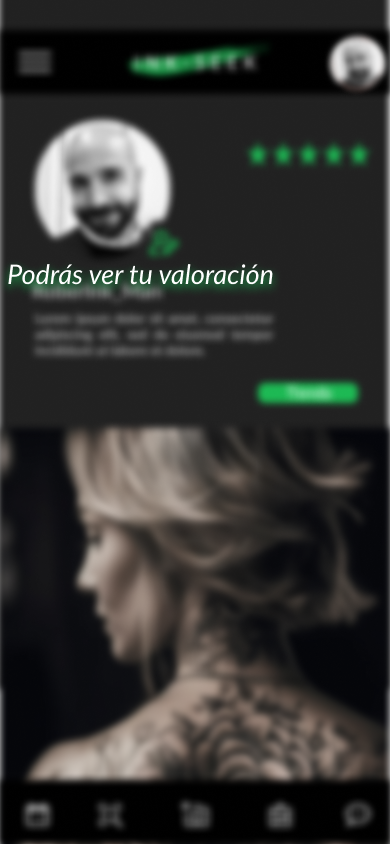
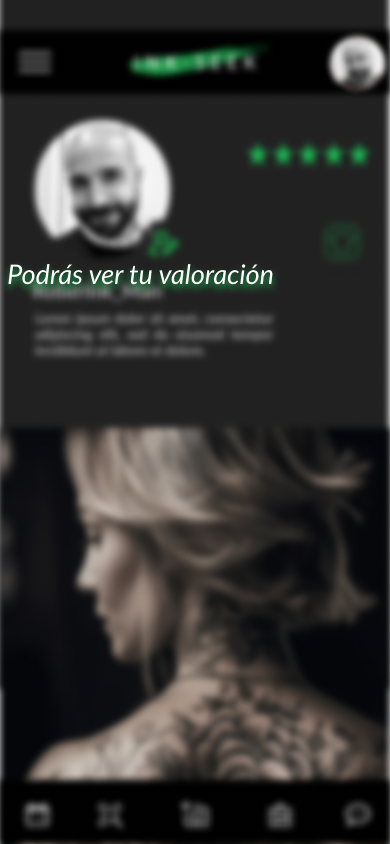
final onboard

Changed region(s): [[0.6462, 0.4313, 0.9231, 0.4929]]

diff --git a/src/app/pages/on-boarding/on-boarding.component.ts b/src/app/pages/on-boarding/on-boarding.component.ts
@@ -49,69 +49,75 @@ export class OnBoardingComponent implements OnInit{
     {src:"assets/onboard/onboardhome/burger-txt.png", text:""},//58
     {src:"assets/onboard/onboardhome/burger.png", text:""},//60
 
-    {src:"assets/onboard/calendario blur.png",text:""},//62
-    {src:"assets/onboard/añadir-citas-txt.png", text:""},//64
-    {src:"assets/onboard/añadir-citas-txt.png", text:""},//66
-    {src:"assets/onboard/añadir-citas-verde.png", text:""},//68
+          // {src:"assets/onboard/calendario blur.png",text:""},//62
+          // {src:"assets/onboard/añadir-citas-txt.png", text:""},//64
+          // {src:"assets/onboard/añadir-citas-txt.png", text:""},//66
+          // {src:"assets/onboard/añadir-citas-verde.png", text:""},//68
 
-    {src:"assets/onboard/calendario blur.png",text:""},//70
-    {src:"assets/onboard/calendario-txt.png", text:""},//72
-    {src:"assets/onboard/calendario-txt.png", text:""},//74
-    {src:"assets/onboard/calendario.png", text:""},//76
+          // {src:"assets/onboard/calendario blur.png",text:""},//70
+          // {src:"assets/onboard/calendario-txt.png", text:""},//72
+          // {src:"assets/onboard/calendario-txt.png", text:""},//74
+          // {src:"assets/onboard/calendario.png", text:""},//76
 
-    {src:"assets/onboard/calendario blur.png",text:""},//78
-    {src:"assets/onboard/consultar citas-txt.png", text:""},//80
-    {src:"assets/onboard/consultar citas-txt.png", text:""},//82
-    {src:"assets/onboard/consultar-citas.png", text:""},//84
+          // {src:"assets/onboard/calendario blur.png",text:""},//78
+          // {src:"assets/onboard/consultar citas-txt.png", text:""},//80
+          // {src:"assets/onboard/consultar citas-txt.png", text:""},//82
+          // {src:"assets/onboard/consultar-citas.png", text:""},//84
 
 
-    {src:"assets/onboardv2/editar_perfil/perfil_tatuador_blur.png", text:""},//0 //86
-    {src:"assets/onboardv2/editar_perfil/perfil_tatuador_blur.png", text:""},//2n //88
-    {src:"assets/onboardv2/editar_perfil/editar_perfil_final_blur.png", text:""},//4 //90
-    {src:"assets/onboardv2/editar_perfil/editar_perfil_final_blur.png", text:""},//6 //92
-    {src:"assets/onboardv2/editar_perfil/editar_perfil_final_noblur.png", text:""},//8 //94                      //segundo 10//
-    
-    {src:"assets/onboardv2/editar_perfil/perfil_tatuador_blur.png", text:""},//10 //96
-    {src:"assets/onboardv2/editar_tienda/editar_tienda_final_blur.png", text:""},//12 //98
-    {src:"assets/onboardv2/editar_tienda/editar_tienda_final_blur.png", text:""},//14 //100
-    {src:"assets/onboardv2/editar_tienda/editar_tienda_final_noblur.png", text:""},//16 //102                         //segundo 18//
-
-    
-    {src:"assets/onboardv2/editar_perfil/perfil_tatuador_blur.png", text:""},//18 //104
-    {src:"assets/onboardv2/editar_valoracion/valoracion_blur.png", text:""},//20 //106
-    {src:"assets/onboardv2/editar_valoracion/valoracion_blur.png", text:""},//22 //108
-    {src:"assets/onboardv2/editar_valoracion/valoracion_noblur.png", text:""},//24 //110                           //segundo 26//
+    {src:"assets/onboardv2/editar_perfil/perfil_tatuador_blur.png", text:""},//0                 62                                  //86
+    {src:"assets/onboardv2/editar_perfil/perfil_tatuador_blur.png", text:""},//2n                64                                  //88
+    {src:"assets/onboardv2/editar_perfil/editar_perfil_final_blur.png", text:""},//4             66                                  //90
+    {src:"assets/onboardv2/editar_perfil/editar_perfil_final_blur.png", text:""},//6             68                                 //92
+    {src:"assets/onboardv2/editar_perfil/editar_perfil_final_noblur.png", text:""},//8           70                                 //94 //segundo 10//
     
 
-    {src:"assets/onboardv2/editar_perfil/perfil_tatuador_blur.png", text:""},//26 //112
-    {src:"assets/onboardv2/editar_galeria/galeria_blur.png", text:""},//28 //114
-    {src:"assets/onboardv2/editar_galeria/galeria_blur.png", text:""},//30 //116
-    {src:"assets/onboardv2/editar_galeria/galeria_noblur.png", text:""},//32 //118                                //segundo 34//
+    {src:"assets/onboardv2/editar_perfil/perfil_tatuador_blur.png", text:""},//10                72                                 //96
+    {src:"assets/onboardv2/editar_tienda/editar_tienda_final_blur.png", text:""},//12            74                                 //98
+    {src:"assets/onboardv2/editar_tienda/editar_tienda_final_blur.png", text:""},//14            76                                 //100
+    {src:"assets/onboardv2/editar_tienda/editar_tienda_final_noblur.png", text:""},//16          78                                 //102//segundo 18//
+
+    
+    {src:"assets/onboardv2/editar_perfil/perfil_tatuador_blur.png", text:""},//18                80                                 //104
+    {src:"assets/onboardv2/editar_valoracion/valoracion_blur.png", text:""},//20                 82                                 //106
+    {src:"assets/onboardv2/editar_valoracion/valoracion_blur.png", text:""},//22                 84                                 //108
+    {src:"assets/onboardv2/editar_valoracion/valoracion_noblur.png", text:""},//24               86                                 //110 //segundo 26//
+    
+
+    {src:"assets/onboardv2/editar_perfil/perfil_tatuador_blur.png", text:""},//26                88                                 //112
+    {src:"assets/onboardv2/editar_galeria/galeria_blur.png", text:""},//28                       90                                 //114
+    {src:"assets/onboardv2/editar_galeria/galeria_blur.png", text:""},//30                       92                                 //116
+    {src:"assets/onboardv2/editar_galeria/galeria_noblur.png", text:""},//32                     94                                 //118//segundo 34//
 
 
-    {src:"assets/onboardv2/mod_perfil/mod_perfil_iniblur.png", text:""},//34 //120
-    {src:"assets/onboardv2/mod_perfil/mod_perfil_iniblur.png", text:""},//36 //122
-    {src:"assets/onboardv2/mod_perfil/mod_perfil_blur.png", text:""},//38 //124
-    {src:"assets/onboardv2/mod_perfil/mod_perfil_blur.png", text:""},//40 //126
-    {src:"assets/onboardv2/mod_perfil/mod_perfil_noblur.png", text:""},//42 //128                                 //segundo 44//
+    {src:"assets/onboardv2/mod_perfil/mod_perfil_iniblur.png", text:""},//34                     96                                //120
+    {src:"assets/onboardv2/mod_perfil/mod_perfil_iniblur.png", text:""},//36                     98                                 //122
+    {src:"assets/onboardv2/mod_perfil/mod_perfil_blur.png", text:""},//38                        100                                 //124
+    {src:"assets/onboardv2/mod_perfil/mod_perfil_blur.png", text:""},//40                        102                                 //126
+    {src:"assets/onboardv2/mod_perfil/mod_perfil_noblur.png", text:""},//42                      104                                 //128//segundo 44//
 
 
-    {src:"assets/onboardv2/mod_perfil/mod_perfil_iniblur.png", text:""},//44 //130
-    {src:"assets/onboardv2/mod_perfil_dato/editar perfil tatuador2_blur.png", text:""},//46 //132
-    {src:"assets/onboardv2/mod_perfil_dato/editar perfil tatuador2_blur.png", text:""},//48 //134
-    {src:"assets/onboardv2/mod_perfil_dato/editar perfil tatuador2_noblur.png", text:""},//50 //136                  //segundo 52//
+    {src:"assets/onboardv2/mod_perfil/mod_perfil_iniblur.png", text:""},//44                      106                                //130
+    {src:"assets/onboardv2/mod_perfil_dato/editar perfil tatuador2_blur.png", text:""},//46       108                                //132
+    {src:"assets/onboardv2/mod_perfil_dato/editar perfil tatuador2_blur.png", text:""},//48       110                               //134
+    {src:"assets/onboardv2/mod_perfil_dato/editar perfil tatuador2_noblur.png", text:""},//50     112                               //136//segundo 52//
 
 
-    {src:"assets/onboardv2/chat/chat_main_blur.png", text:""},//52 //138
-    {src:"assets/onboardv2/chat/chat_noblur.png", text:""},//54 //140
-    {src:"assets/onboardv2/chat/chat_bocadillo.png", text:""},//56 //142
-    {src:"assets/onboardv2/chat/chat_bocadillo.png", text:""},//58 //144                                                      //segundo 60//
 
 
-    {src:"assets/onboardv2/artistas/artistas_blur.png", text:""},//62 //146
-    {src:"assets/onboardv2/artistas/artistas_blur.png", text:""},//64 //148
-    {src:"assets/onboardv2/artistas/artistas_noblur.png", text:""},//66 //150 
-    {src:"assets/onboardv2/artistas/artistas_noblur.png", text:""},//68 //152                                                      //segundo 68//
+
+        // {src:"assets/onboardv2/chat/chat_main_blur.png", text:""},//52 //138
+        // {src:"assets/onboardv2/chat/chat_noblur.png", text:""},//54 //140
+        // {src:"assets/onboardv2/chat/chat_bocadillo.png", text:""},//56 //142
+        // {src:"assets/onboardv2/chat/chat_bocadillo.png", text:""},//58 //144                                                      //segundo 60//
+
+
+        // {src:"assets/onboardv2/artistas/artistas_blur.png", text:""},//62 //146
+        // {src:"assets/onboardv2/artistas/artistas_blur.png", text:""},//64 //148
+        // {src:"assets/onboardv2/artistas/artistas_noblur.png", text:""},//66 //150 
+        // {src:"assets/onboardv2/artistas/artistas_noblur.png", text:""},//68 //152                                                      //segundo 68//
+    {src:"assets/onboard/onboardhome/01.png", text:""},
+    {src:"assets/onboard/onboardhome/01.png", text:""},
     {src:"assets/onboard/onboardhome/01.png", text:""},
   ]; 
   currentIndex= 0

diff --git a/src/app/pages/on-boarding/on-boarding.component.css b/src/app/pages/on-boarding/on-boarding.component.css
@@ -97,35 +97,23 @@
   opacity: 0;
   scale: 1;
 }
-
+/*  */
 .burger {
+  height: 30px;
+  width: 30px;
   background-image: url("src\assets\onboard\iconos\burger.png");
   background-size: contain;
   background-repeat: no-repeat;
   position: relative;
   z-index: 9999;
   position:inherit;
-  top: 47px;
-  left: 26px;
+  top: 48px;
+  left: 23px;
   animation: aparecer 3s 55s forwards, desaparecer 3s 58s forwards;
   opacity: 0;
   scale: 1;
 }
-/* .buscador {
-  background-image: url("../../../assets/img/buscador.png");
-  background-size: contain;
-  background-repeat: no-repeat;
-  height: 6.5%;
-  width: 245px;
-  position: relative;
-  z-index: 9999;
-  position:inherit;
-  top: 104.5px;
-  left: 72px;
-  animation: aparecer 3s 91s forwards, desaparecer 3s 92s forwards;
-  opacity: 0;
-  scale: 1;
-} */
+
 .chat {
   background-image: url("src\assets\onboard\iconos\chat.png");
   background-size: contain;
@@ -141,7 +129,7 @@
   opacity: 0;
   scale: 1;
 }
-.añadir{
+/* .añadir{
 background-image: url("src\assets\onboard\aña.png");
 background-size: contain;
 background-repeat: no-repeat;
@@ -155,8 +143,8 @@ right: 52px;
 animation: aparecer 3s 63s forwards, desaparecer 3s 66s forwards;
 opacity: 0;
 scale: 1;
-}
-.calendario2{
+} */
+/* .calendario2{
 background-size: contain;
 background-repeat: no-repeat;
 height: 375px;
@@ -169,8 +157,8 @@ left: 25px;
 animation: bordes 3s 71s forwards, bordes-out 3s 74s forwards;
 opacity: 0;
 scale: 1;
-}
-.consultar {
+} */
+/* .consultar {
 background-size: contain;
 background-repeat: no-repeat;
 height: 140px;
@@ -183,8 +171,8 @@ left: 30px;
 opacity: 0;
 scale: 1;
 animation: bordes 3s 79s forwards, bordes-out 3s 82s forwards;
-}
-/* .elemento1{
+} */
+ .elemento1{
   background-image:url("src/assets/editarp.png");
   background-size: contain;
   background-repeat:no-repeat;
@@ -197,7 +185,8 @@ animation: bordes 3s 79s forwards, bordes-out 3s 82s forwards;
   position:inherit;
   top: 200px;
   right: 200px;
-  animation: aparecer 3s 90s forwards, desaparecer 3s 92s forwards;
+  animation: aparecer 3s 63s forwards, desaparecer 3s 66s forwards;
+  /* animation: aparecer 3s 90s forwards, desaparecer 3s 92s forwards; */
   opacity: 0;
   scale: 1;
 } 
@@ -206,16 +195,17 @@ animation: bordes 3s 79s forwards, bordes-out 3s 82s forwards;
   background-image:url("src/assets/onboardv2/editar_tienda/foto_tienda.png");
   background-size: contain;
   background-repeat:no-repeat;
-  height: 10%;
+  height: 7%;
   width: 17.2%;
   position: relative;
   z-index: 9999;
   position:inherit;
-  bottom: 340px;
-  left: 275px;
-  animation: aparecer 3s 98s forwards, desaparecer 3s 100s forwards;
+  bottom: 545px;
+  left: 290px;
+  animation: aparecer 3s 73s forwards, desaparecer 3s 76s forwards;
+  /* animation: aparecer 3s 98s forwards, desaparecer 3s 100s forwards; */
   opacity: 0;
-  scale: 1;
+  scale: 1.3;
   
 } 
  .elemento3 {
@@ -229,7 +219,8 @@ animation: bordes 3s 79s forwards, bordes-out 3s 82s forwards;
   position:inherit;
   bottom: 520px;
   left: 260px;
-  animation: aparecer 3s 106s forwards, desaparecer 3s 108s forwards;
+  animation: aparecer 3s 81s forwards, desaparecer 3s 84s forwards;
+  /* animation: aparecer 3s 106s forwards, desaparecer 3s 108s forwards; */
   opacity: 0;
   scale: 1;
 }
@@ -244,11 +235,12 @@ animation: bordes 3s 79s forwards, bordes-out 3s 82s forwards;
     position:inherit;
     bottom: 420px;
     left: 235px;
-    animation: aparecer 3s 124s forwards, desaparecer 3s 126s forwards;
+    animation: aparecer 3s 97s forwards, desaparecer 3s 100s forwards;
+    /* animation: aparecer 3s 124s forwards, desaparecer 3s 126s forwards; */
     opacity: 0;
-    scale: 1; */
-/* } */
-/* .elemento5 {
+    scale: 1;
+ }
+.elemento5 {
   background-image:url("src/assets/Vector.png");    
   background-repeat:no-repeat;
   background-size: contain;
@@ -261,7 +253,8 @@ animation: bordes 3s 79s forwards, bordes-out 3s 82s forwards;
   position:inherit;
   bottom: 80px;
   left: 310px;
-  animation: aparecer 3s 132s forwards, desaparecer 3s 134s forwards; 
+  animation: aparecer 3s 107s forwards, desaparecer 3s 111s forwards;
+  /* animation: aparecer 3s 132s forwards, desaparecer 3s 134s forwards;  */
   opacity: 0;
   scale: 1;
 }
@@ -278,13 +271,14 @@ animation: bordes 3s 79s forwards, bordes-out 3s 82s forwards;
   position:inherit;
   bottom: 510px;
   left: 300px;
-  animation: aparecer 3s 142s forwards, desaparecer 3s 144s forwards; 
+  animation: aparecer 3s 132s forwards, desaparecer 3s 134s forwards;
+  /* animation: aparecer 3s 142s forwards, desaparecer 3s 144s forwards;  */
   opacity: 0;
   scale: 1;
 }
 
 
-/* .elemento7 {
+ /* .elemento7 {
   background-image:url("../../../assets/img/");    
   background-repeat:no-repeat;
   background-size: contain;
@@ -298,7 +292,7 @@ animation: bordes 3s 79s forwards, bordes-out 3s 82s forwards;
 animation: aparecer 3s 148s forwards, desaparecer 3s 150s forwards; 
   opacity: 0;
   scale: 1;
-} */
+}  */
 
 @keyframes aparecer{
   0% {
